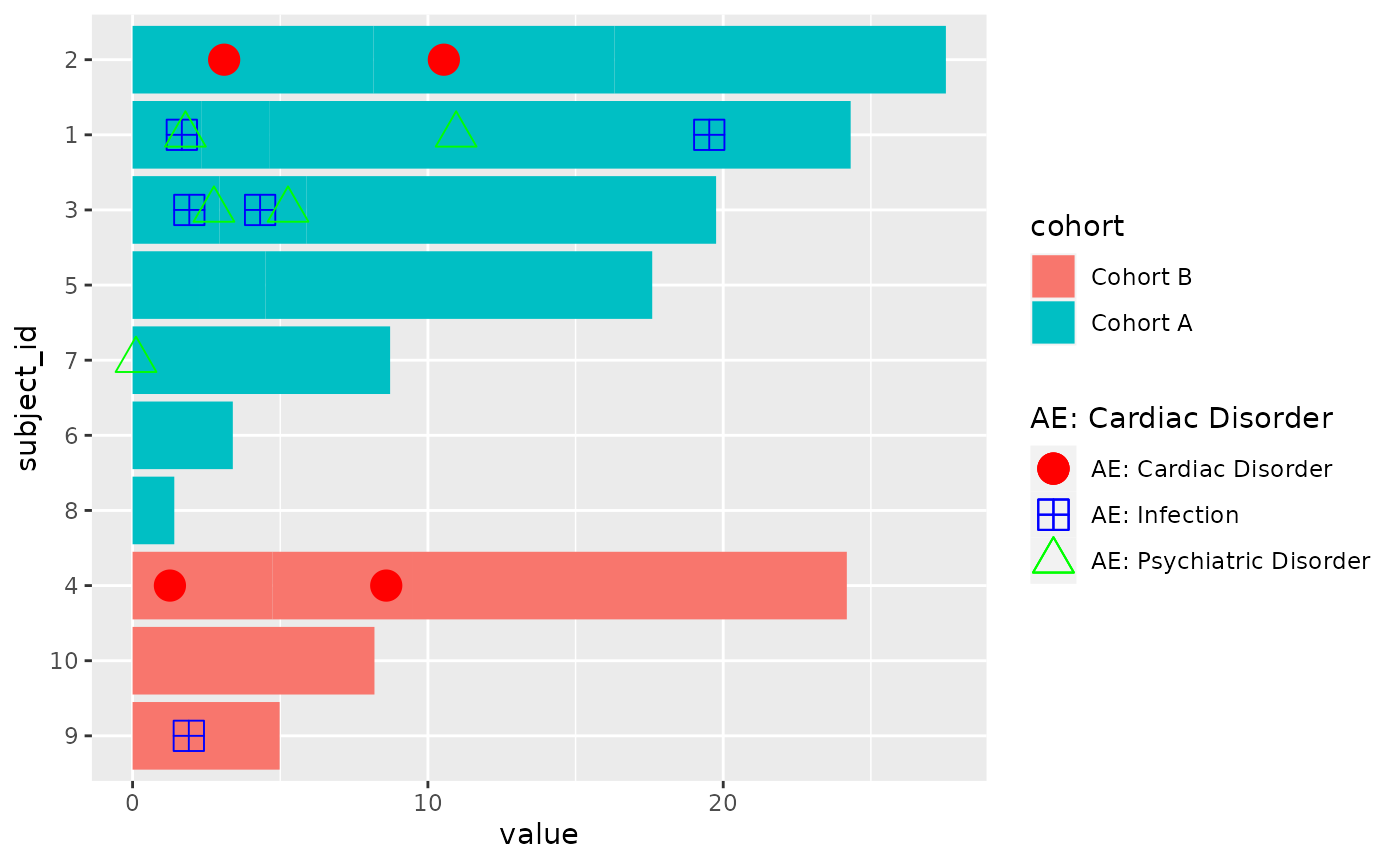
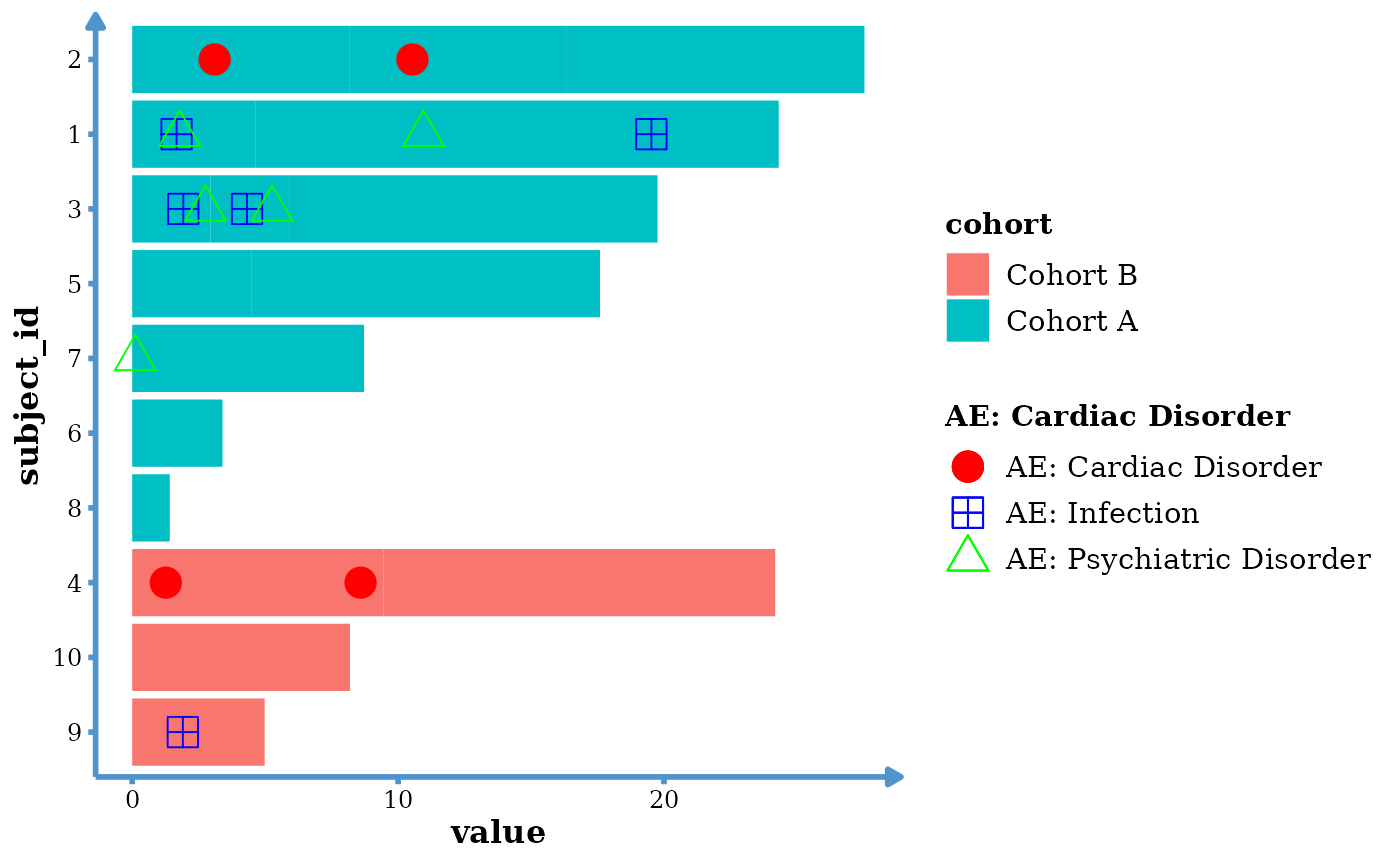
Deploying to gh-pages from @ CHOP-CGTInformatics/ggswim@83706fb66386e67b3507566a2e1de9768a4674a4 🚀

diff --git a/articles/ggswim.html b/articles/ggswim.html
@@ -80,35 +80,34 @@
 
     
     
-<p>The ggswim package provides users with a convenient and flexible
-framework for quickly developing swimmer plots in a way that coincides
-with typical ggplot2 design principles. In this article, we will
-demonstrate some of the options available to developers.</p>
-<p>In its current state, ggswim uses two main functions:
-<code><a href="../reference/ggswim.html">ggswim()</a></code> and <code><a href="../reference/add_marker.html">add_marker()</a></code>.</p>
-<p><code><a href="../reference/ggswim.html">ggswim()</a></code> is wrapped around <code><a href="https://ggplot2.tidyverse.org/reference/geom_bar.html" class="external-link">geom_col()</a></code> and
-is responsible for providing the horizontal bars of a swimmer plot, what
-we’ll refer to as the “lanes.” <code><a href="../reference/add_marker.html">add_marker()</a></code> is wrapped
-around <code><a href="https://ggplot2.tidyverse.org/reference/geom_point.html" class="external-link">geom_point()</a></code> and <code><a href="https://ggplot2.tidyverse.org/reference/geom_text.html" class="external-link">geom_label()</a></code> to add
-points/shapes/labels or what we’ll refer to as the “markers” for events
-on the swimmer plots lanes.</p>
-<p>Because ggswim is built on top of existing ggplot2 infrastructure,
-those familiar with ggplot2 will be able to implement the same
-layer-building development practices they are used to, including
-stylizing and themes.</p>
+<p>The ggswim package eases the development of swimmer plots in R by
+seamlessly integrating with the ggplot2 framework. In this vignette,
+we’ll walk through how users can create visually striking swimmer
+plots.</p>
+<p>At the heart of ggswim are two pivotal functions:
+<code><a href="../reference/ggswim.html">ggswim()</a></code> and <code><a href="../reference/add_marker.html">add_marker()</a></code>. The former, an
+extension of <code><a href="https://ggplot2.tidyverse.org/reference/geom_bar.html" class="external-link">geom_col()</a></code>, allows users to construct the
+fundamental horizontal bars, often referred to as “lanes.” Meanwhile,
+<code><a href="../reference/add_marker.html">add_marker()</a></code> leverages <code><a href="https://ggplot2.tidyverse.org/reference/geom_point.html" class="external-link">geom_point()</a></code> and
+<code><a href="https://ggplot2.tidyverse.org/reference/geom_text.html" class="external-link">geom_label()</a></code> to effortlessly embed key events or “markers”
+onto the plot. These can take the form of unicode shapes, symbols, or
+even emojis.</p>
+<p>Drawing from the well-established principles of ggplot2, ggswim
+allows users to apply familiar layer-building techniques, including the
+application of styles and themes.</p>
+<p>Let’s dive in and explore the boundless possibilities that
+<code>ggswim</code> offers for expressive swimmer plots!</p>
 <div class="section level3">
 <h3 id="building-swimmer-plots-with-aesthetic-mapping">Building swimmer plots with aesthetic mapping<a class="anchor" aria-label="anchor" href="#building-swimmer-plots-with-aesthetic-mapping"></a>
 </h3>
-<p>In this first example, let’s build a swimmer plot using
-<code><a href="https://ggplot2.tidyverse.org/reference/aes.html" class="external-link">aes()</a></code> and dynamic mapping of data. As with the README, we
-will be using ggswim’s internal <code>patient_data</code> list
-dataset.</p>
-<p>As mentioned in the README, <code>patient_status</code> is currently
-built to reflect a typical dataset in the wild. To make this work well
-and appear nicely in our swimmer plot output, a little bit of some
-preparation was required. Unlike what we provide for you out of the box,
-a more typical <code>patient_status</code> might look something like
-this:</p>
+<p>To start, let’s build a swimmer plot using <code><a href="https://ggplot2.tidyverse.org/reference/aes.html" class="external-link">aes()</a></code> and
+dynamic mapping of data. As with the README, we will be using ggswim’s
+internal <code>patient_data</code> list dataset.</p>
+<p>As mentioned in the README, <code>patient_status</code> is built to
+reflect a typical dataset in the wild. To make this work well and appear
+nicely in our swimmer plot output, a little bit of preparation was
+required. Unlike what we provide for you out of the box, a more typical
+<code>patient_status</code> might look something like this:</p>
 <pre><code><span><span class="co">#&gt; <span style="color: #949494;"># A tibble: 15 × 5</span></span></span>
 <span><span class="co">#&gt;    subject_id cohort   status    time_start time_end</span></span>
 <span><span class="co">#&gt;    <span style="color: #949494; font-style: italic;">&lt;fct&gt;</span>      <span style="color: #949494; font-style: italic;">&lt;fct&gt;</span>    <span style="color: #949494; font-style: italic;">&lt;ord&gt;</span>          <span style="color: #949494; font-style: italic;">&lt;dbl&gt;</span>    <span style="color: #949494; font-style: italic;">&lt;dbl&gt;</span></span></span>
@@ -130,10 +129,10 @@ this:</p>
 <p>Therefore, when viewing the available <code>patient_status</code>,
 keep in mind it has undergone the following data cleaning steps:</p>
 <ul>
-<li>A pivot so that <code>time_start</code> and <code>time_end</code>
-comprise a single value.</li>
-<li>Addition of a sorting variable, <code>time_sorting</code>, to
-support arrangement using summed time values</li>
+<li>A pivot that keeps <code>time_start</code> and <code>time_end</code>
+under one column</li>
+<li>The addition of a sorting variable, <code>time_sorting</code>, to
+support arrangement using summed times</li>
 <li>Arrangement of the data by cohort groups, time sorted values, and
 subject ID factor levels</li>
 </ul>
@@ -179,13 +178,11 @@ subject ID factor levels</li>
 <span></span>
 <span><span class="va">p</span></span></code></pre></div>
 <p><img src="ggswim_files/figure-html/aes%20mapping%20plot-1.png" width="700"></p>
-<p>This is great for shapes and points, but what if we wanted to get
-fancy and add in some labels like emojis? This is where some ggswim
-magic really shines. ggswim’s <code><a href="../reference/add_marker.html">add_marker()</a></code> allows for both
-types of displays to appear and does the leg work of rending them both
-appropriately in the legend under the same layer. Let’s add these with
-another <code><a href="../reference/add_marker.html">add_marker()</a></code> call using the
-<code>medication_administration</code> data:</p>
+<p>In addition to shapes and symbols, ggswim supports the use of emojis
+when rendering swimmer plots. <code><a href="../reference/add_marker.html">add_marker()</a></code> allows users to
+specify shapes or emojis by using the appropriate argument callouts
+(<code>label</code> and <code>shape</code>). Let’s add a layer using
+emojis via the <code>medication_administration</code> dataset:</p>
 <div class="sourceCode" id="cb4"><pre class="downlit sourceCode r">
 <code class="sourceCode R"><span><span class="va">p</span> <span class="op">&lt;-</span> <span class="va">p</span> <span class="op">+</span></span>
 <span>  <span class="fu"><a href="../reference/add_marker.html">add_marker</a></span><span class="op">(</span></span>
@@ -201,10 +198,11 @@ another <code><a href="../reference/add_marker.html">add_marker()</a></code> cal
 <span></span>
 <span><span class="va">p</span></span></code></pre></div>
 <p><img src="ggswim_files/figure-html/label%20mapping-1.png" width="700"></p>
-<p>This is great and all, but it could look better right? Remember how
-earlier we mentioned you can use existing ggplot2 functions with ggswim
-outputs? Let’s implement some here so we can find a bit more joy in our
-plot:</p>
+<p>At this point we have a working swimmer plot with lanes and two
+different kinds of marker layers. Recall that ggswim works within the
+ggplot2 framework, therefore customization can be done using the same
+ggplot2 theme and styling functions users may already be familiar
+with:</p>
 <div class="sourceCode" id="cb5"><pre class="downlit sourceCode r">
 <code class="sourceCode R"><span><span class="kw"><a href="https://rdrr.io/r/base/library.html" class="external-link">library</a></span><span class="op">(</span><span class="va"><a href="https://ggplot2.tidyverse.org" class="external-link">ggplot2</a></span><span class="op">)</span></span>
 <span></span>
@@ -225,22 +223,31 @@ plot:</p>
 <span>    values <span class="op">=</span> <span class="fu"><a href="https://rdrr.io/r/base/c.html" class="external-link">c</a></span><span class="op">(</span><span class="st">"steelblue"</span>, <span class="st">"cyan"</span><span class="op">)</span></span>
 <span>  <span class="op">)</span></span></code></pre></div>
 <p><img src="ggswim_files/figure-html/mapping%20finalizing-1.png" width="700"></p>
+<p>However, ggswim also provides a convenient theme function all of its
+own if desired:</p>
+<div class="sourceCode" id="cb6"><pre class="downlit sourceCode r">
+<code class="sourceCode R"><span></span>
+<span><span class="va">p</span> <span class="op">+</span></span>
+<span>  <span class="fu"><a href="https://ggplot2.tidyverse.org/reference/labs.html" class="external-link">labs</a></span><span class="op">(</span>x <span class="op">=</span> <span class="st">"Time"</span>, y <span class="op">=</span> <span class="st">"Subject ID"</span>, color <span class="op">=</span> <span class="st">"Markers"</span><span class="op">)</span> <span class="op">+</span></span>
+<span>  <span class="fu"><a href="https://ggplot2.tidyverse.org/reference/labs.html" class="external-link">ggtitle</a></span><span class="op">(</span><span class="st">"My Swim Plot"</span><span class="op">)</span> <span class="op">+</span></span>
+<span>  <span class="fu"><a href="../reference/theme_ggswim.html">theme_ggswim</a></span><span class="op">(</span><span class="op">)</span></span></code></pre></div>
+<p><img src="ggswim_files/figure-html/mapping%20with%20theme_ggswim-1.png" width="700"></p>
 </div>
 <div class="section level3">
-<h3 id="building-swimmer-plots-with-individual-markers">Building swimmer plots with individual markers<a class="anchor" aria-label="anchor" href="#building-swimmer-plots-with-individual-markers"></a>
+<h3 id="customizing-markers-a-deeper-dive">Customizing Markers: A Deeper Dive<a class="anchor" aria-label="anchor" href="#customizing-markers-a-deeper-dive"></a>
 </h3>
-<p>Not all data is made, or received equal, and so ggswim was developed
-to cater to both dynamic mapping of markers as well as static assignment
-of markers. What do we mean by this?</p>
-<p>Well, let’s say that instead of setting your mapped
-<code><a href="https://ggplot2.tidyverse.org/reference/aes.html" class="external-link">aes()</a></code> “colour” to a variable, you instead only have one
-marker in the dataset supplied and want to define the <code>color</code>
-yourself. Let’s split up <code>adverse_events</code> so there is only
-one marker level per dataframe.</p>
-<p>For this to work, we also need to specify an <code><a href="https://ggplot2.tidyverse.org/reference/aes.html" class="external-link">aes()</a></code>
-<code>name</code> argument to <code><a href="../reference/add_marker.html">add_marker()</a></code> which acts as an
-anchor point for the legend.</p>
-<div class="sourceCode" id="cb6"><pre class="downlit sourceCode r">
+<p>In the world of data, one size rarely fits all. That’s why ggswim
+caters to both dynamic and static marker assignments. But what does that
+mean exactly?</p>
+<p>Imagine you have a dataset where you want to manually define the
+color of a single, significant marker rather than relying on a mapped
+variable. By splitting up <code>adverse_events</code> into distinct data
+frames, you can achieve this customized effect.</p>
+<p>To make it all come together, make sure to include an
+<code><a href="https://ggplot2.tidyverse.org/reference/aes.html" class="external-link">aes()</a></code> <code>name</code> argument within
+<code><a href="../reference/add_marker.html">add_marker()</a></code>. This serves as a crucial anchor point for the
+legend, ensuring clarity in your visualization.</p>
+<div class="sourceCode" id="cb7"><pre class="downlit sourceCode r">
 <code class="sourceCode R"><span><span class="va">adverse_event_cardio</span> <span class="op">&lt;-</span> <span class="va">adverse_events</span> <span class="op">|&gt;</span></span>
 <span>  <span class="fu">dplyr</span><span class="fu">::</span><span class="fu"><a href="https://dplyr.tidyverse.org/reference/filter.html" class="external-link">filter</a></span><span class="op">(</span><span class="va">adverse_event_name</span> <span class="op">==</span> <span class="st">"Cardiac Disorder"</span><span class="op">)</span></span>
 <span></span>
@@ -249,8 +256,8 @@ anchor point for the legend.</p>
 <span></span>
 <span><span class="va">adverse_event_psych</span> <span class="op">&lt;-</span> <span class="va">adverse_events</span> <span class="op">|&gt;</span></span>
 <span>  <span class="fu">dplyr</span><span class="fu">::</span><span class="fu"><a href="https://dplyr.tidyverse.org/reference/filter.html" class="external-link">filter</a></span><span class="op">(</span><span class="va">adverse_event_name</span> <span class="op">==</span> <span class="st">"Psychiatric Disorder"</span><span class="op">)</span></span></code></pre></div>
-<p>Now, let’s plot it similarly to what we did above:</p>
-<div class="sourceCode" id="cb7"><pre class="downlit sourceCode r">
+<p>Now, let’s plot it similarly to how we have previously:</p>
+<div class="sourceCode" id="cb8"><pre class="downlit sourceCode r">
 <code class="sourceCode R"><span><span class="fu"><a href="../reference/ggswim.html">ggswim</a></span><span class="op">(</span></span>
 <span>  data <span class="op">=</span> <span class="va">patient_status</span>,</span>
 <span>  mapping <span class="op">=</span> <span class="fu"><a href="https://ggplot2.tidyverse.org/reference/aes.html" class="external-link">aes</a></span><span class="op">(</span></span>
@@ -285,31 +292,36 @@ anchor point for the legend.</p>
 <span>      name <span class="op">=</span> <span class="st">"AE: Psychiatric Disorder"</span></span>
 <span>    <span class="op">)</span>,</span>
 <span>    color <span class="op">=</span> <span class="st">"green"</span>, size <span class="op">=</span> <span class="fl">5</span>, shape <span class="op">=</span> <span class="fl">2</span></span>
-<span>  <span class="op">)</span></span>
-<span><span class="co">#&gt; Warning: Duplicated aesthetics after name standardisation: <span style="color: #00BB00;">colour</span></span></span>
-<span><span class="co">#&gt; Duplicated aesthetics after name standardisation: <span style="color: #00BB00;">colour</span></span></span>
-<span><span class="co">#&gt; Duplicated aesthetics after name standardisation: <span style="color: #00BB00;">colour</span></span></span></code></pre></div>
+<span>  <span class="op">)</span> <span class="op">+</span></span>
+<span>  <span class="fu"><a href="../reference/theme_ggswim.html">theme_ggswim</a></span><span class="op">(</span><span class="op">)</span></span></code></pre></div>
 <p><img src="ggswim_files/figure-html/static%20plot-1.png" width="700"></p>
 <p>This example showcases ggswim’s ability to handle different data
-structures from varying sources. Due to its flexible framework, users
-can customize the output to suit whatever best suits their needs.</p>
+structures from varying sources. Its adaptable framework lets users
+customize the output precisely to their unique requirements.</p>
 </div>
 <div class="section level3">
 <h3 id="additional-notes">Additional notes<a class="anchor" aria-label="anchor" href="#additional-notes"></a>
 </h3>
+<p>Here are some essential points to keep in mind when working with
+ggswim:</p>
 <ul>
-<li>ggswim does not support missing data for mapping aesthetics.
-Developers will be warned about missing data that may appear in the
-display, but will be removed from the legend.</li>
-<li>
-<code><a href="../reference/ggswim.html">ggswim()</a></code> does not support mapping using the
-<code>colour</code> argument</li>
-<li>
-<code><a href="../reference/add_marker.html">add_marker()</a></code> does not support mapping using the
-<code>fill</code> argument</li>
-<li>For emojis and other shapes to properly appear, users may need to
-switch the graphics rendering device to AGG</li>
+<li><p><strong>Handling Missing Data:</strong> ggswim does not support
+missing data for mapping aesthetics. If any are detected, developers
+will receive a warning, and the missing data may appear as
+<code>NA</code> values in the display, but will be excluded from the
+legend.</p></li>
+<li><p><strong>Color Mapping with <code><a href="../reference/ggswim.html">ggswim()</a></code>:</strong> Please
+note that <code><a href="../reference/ggswim.html">ggswim()</a></code> does not support mapping using the
+<code>colour</code> argument.</p></li>
+<li><p><strong>Filling Markers with <code><a href="../reference/add_marker.html">add_marker()</a></code>:</strong>
+Similarly, <code><a href="../reference/add_marker.html">add_marker()</a></code> does not support mapping using the
+<code>fill</code> argument.</p></li>
+<li><p><strong>Rendering Emojis and Custom Shapes:</strong> To ensure
+emojis and other custom shapes display correctly, users may need to
+switch the graphics rendering device to AGG.</p></li>
 </ul>
+<p>These considerations will help you make the most of ggswim while
+building your visualizations.</p>
 </div>
   </main><aside class="col-md-3"><nav id="toc"><h2>On this page</h2>
     </nav></aside>

diff --git a/index.html b/index.html
@@ -79,35 +79,30 @@
 <div class="section level2">
 <h2 id="installation">Installation<a class="anchor" aria-label="anchor" href="#installation"></a>
 </h2>
-<p>⚠ ggswim is in its very early stages, but in active development!⚠</p>
-<p>Expect to see many changes in the near future to the API and documentation.</p>
 <p>You can install the development version of ggswim like so:</p>
 <div class="sourceCode" id="cb1"><pre class="downlit sourceCode r">
 <code class="sourceCode R"><span><span class="fu">devtools</span><span class="fu">::</span><span class="fu">install_github</span><span class="op">(</span><span class="st">"CHOP-CGTInformatics/ggswim"</span><span class="op">)</span></span></code></pre></div>
 </div>
 <div class="section level2">
-<h2 id="background">Background<a class="anchor" aria-label="anchor" href="#background"></a>
+<h2 id="ggswim-elegant-swimmer-plots-with-ggplot2">ggswim: Elegant Swimmer Plots with ggplot2<a class="anchor" aria-label="anchor" href="#ggswim-elegant-swimmer-plots-with-ggplot2"></a>
 </h2>
-<p>ggswim provides developers with a set of commands that make it easy to create beautiful swimmer plots using the architecture they may already be familiar with in ggplot2. The main functions that power ggswim are wrapped around core ggplot2 functions, leveraging the ability to add layers at a whim for whatever the developer’s display requires.</p>
-<p>The ggswim package reduces the complexity behind making reproducible legend displays that correctly show points of interest and are key to telling the story of the swimmer plot.</p>
-<p>Let’s show a quick example of how this works below!</p>
+<p>ggswim simplifies the creation of stunning swimmer plots by seamlessly integrating with the familiar ggplot2 framework, allowing developers to effortlessly add layers and customize displays to their needs.</p>
+<p>One of ggswim’s key strengths is its ability to streamline the process of generating clear, reproducible legends. This ensures that crucial points of interest are effectively communicated, enhancing the narrative of the swimmer plot.</p>
+<p>Let’s dive right into a quick example to showcase the simplicity and effectiveness of ggswim!</p>
 </div>
 <div class="section level2">
-<h2 id="a-sample-data-set">A Sample Data Set<a class="anchor" aria-label="anchor" href="#a-sample-data-set"></a>
+<h2 id="exploring-the-sample-dataset">Exploring the Sample Dataset<a class="anchor" aria-label="anchor" href="#exploring-the-sample-dataset"></a>
 </h2>
-<p>ggswim comes packaged with a sample dataset called <code>patient_status</code>, which is a list containing 3 tibbles:</p>
+<p>To help you get started, ggswim includes a sample dataset named <code>patient_status</code>. This dataset comprises three tibbles:</p>
 <ul>
 <li>
-<code>patient_status</code>
-<ul>
+<code>patient_status</code>: Designed for ease of use with ggswim, it may not perfectly mirror real-world data, but serves as an ideal starting point. A 7 column tibble with subject cohorts, statuses, and start and end times.</li>
 <li>
-<code>patient_status</code> has already been prepared in a way that makes it easy to use with ggswim, but may not be very representative of how one receives data in the wild</li>
+<code>adverse_events</code>: A 3 column tibble showcasing 3 kinds of adverse events and the time when they occurred</li>
+<li>
+<code>medication_administration</code>: A 4 column tibble showcasing 2 kinds of medications and the time they were given</li>
 </ul>
-</li>
-<li><code>adverse_events</code></li>
-<li><code>medication_administration</code></li>
-</ul>
-<p>Each of these tibbles are also available to call individually. Let’s load the data and get ready to swim!</p>
+<p>You can also access each of these tibbles individually. Let’s load the data and dive into creating our swimmer plots!</p>
 <div class="sourceCode" id="cb2"><pre class="downlit sourceCode r">
 <code class="sourceCode R"><span><span class="kw"><a href="https://rdrr.io/r/base/library.html" class="external-link">library</a></span><span class="op">(</span><span class="va">ggswim</span><span class="op">)</span></span>
 <span></span>

diff --git a/articles/add_arrows.html b/articles/add_arrows.html
@@ -82,18 +82,20 @@
     
 <div class="sourceCode" id="cb1"><pre class="downlit sourceCode r">
 <code class="sourceCode R"><span><span class="kw"><a href="https://rdrr.io/r/base/library.html" class="external-link">library</a></span><span class="op">(</span><span class="va">ggswim</span><span class="op">)</span></span></code></pre></div>
-<p>ggswim optionally allows users to add arrows to the tail ends of
-their swimmer plot lanes to illustrate continuation of specific records.
-Use case examples includes depicting continuation of care and subject
-survival statuses.</p>
-<p>Under the hood, arrows makes a simple call to
-<code><a href="https://ggplot2.tidyverse.org/reference/geom_segment.html" class="external-link">ggplot2::geom_segment()</a></code> with some slight manipulations. The
-segments are all of length 0, but the arrows are made visible by
-supplying a specifying length. <code><a href="../reference/ggswim.html">ggswim()</a></code> lets users control
-that length as well as color, fill, and type options (see
-<code><a href="../reference/ggswim.html">?ggswim</a></code> for more information).</p>
-<p>Let’s start with an example similar to the one we’ve been using in
-the README.</p>
+<p>In certain scenarios, it can be useful to visually indicate the
+continuation of specific records in a swimmer plot. This is where the
+optional feature of adding arrows to the tail ends of swimmer plot lanes
+in ggswim comes in handy. Example use cases include illustrating the
+ongoing care of patients or highlighting record “survival” statuses.</p>
+<p>Behind the scenes, the inclusion of arrows is facilitated by a call
+to <code><a href="https://ggplot2.tidyverse.org/reference/geom_segment.html" class="external-link">ggplot2::geom_segment()</a></code>, coupled with some fine-tuning.
+While the segments themselves have zero length, the arrows are made
+possible with a defined length parameter. Within <code><a href="../reference/ggswim.html">ggswim()</a></code>,
+users have full control over this length, along with options for color,
+fill, and type (refer to <code><a href="../reference/ggswim.html">?ggswim</a></code> for detailed
+information).</p>
+<p>Let’s dive into an example, similar to the one we’ve been using in
+the README, to see this feature in action.</p>
 <div class="sourceCode" id="cb2"><pre class="downlit sourceCode r">
 <code class="sourceCode R"><span><span class="fu"><a href="../reference/ggswim.html">ggswim</a></span><span class="op">(</span></span>
 <span>  data <span class="op">=</span> <span class="va">patient_status</span>,</span>
@@ -104,12 +106,12 @@ the README.</p>
 <span>  <span class="op">)</span></span>
 <span><span class="op">)</span></span></code></pre></div>
 <p><img src="add_arrows_files/figure-html/unnamed-chunk-2-1.png" width="700"></p>
-<p>To add arrows to our plot, we first need to specify a boolean column
-that basically tells <code><a href="../reference/ggswim.html">ggswim()</a></code> whether or not to tack on an
-arrow to the row. In the case of <code>patient_status</code>, this
-column is called <code>alive</code> and assigns
-<code>TRUE</code>/<code>FALSE</code> for a patient’s survival status at
-the time of plotting.</p>
+<p>Before we can incorporate arrows into our swimmer plot, we need to
+designate a boolean column that informs <code><a href="../reference/ggswim.html">ggswim()</a></code> when to
+append an arrow to a specific row. In our example using
+<code>patient_status</code>, this column is named <code>alive</code> and
+takes on <code>TRUE</code> or <code>FALSE</code> values to denote a
+patient’s survival status at the time of plotting.</p>
 <div class="sourceCode" id="cb3"><pre class="downlit sourceCode r">
 <code class="sourceCode R"><span><span class="fu"><a href="https://rdrr.io/r/utils/head.html" class="external-link">head</a></span><span class="op">(</span><span class="va">patient_status</span><span class="op">)</span></span>
 <span><span class="co">#&gt; <span style="color: #949494;"># A tibble: 6 × 7</span></span></span>
